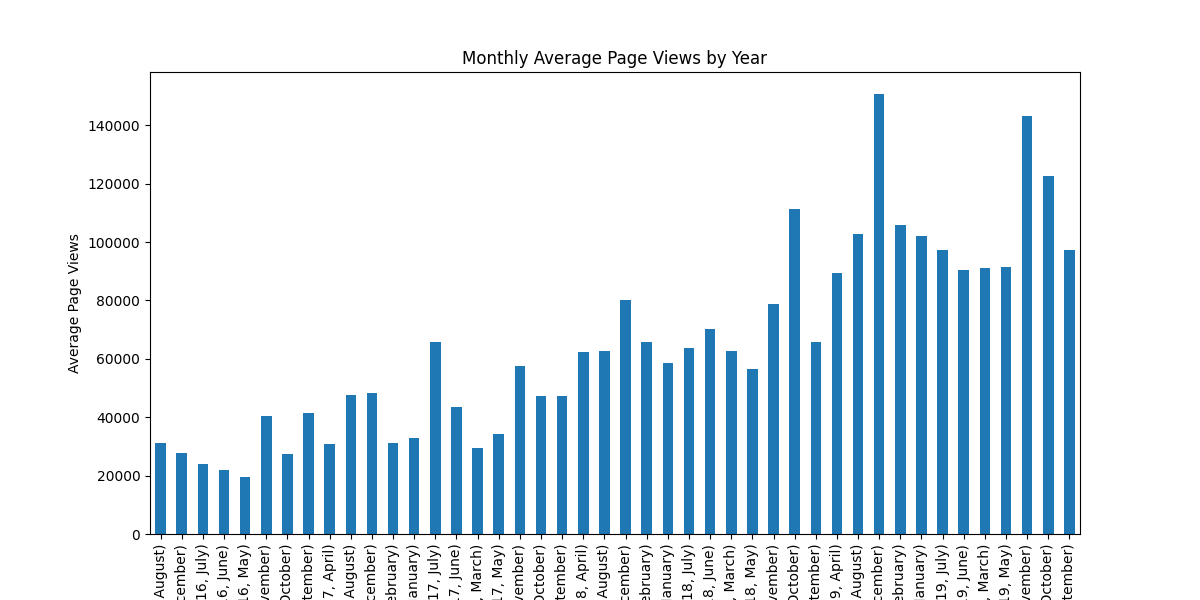
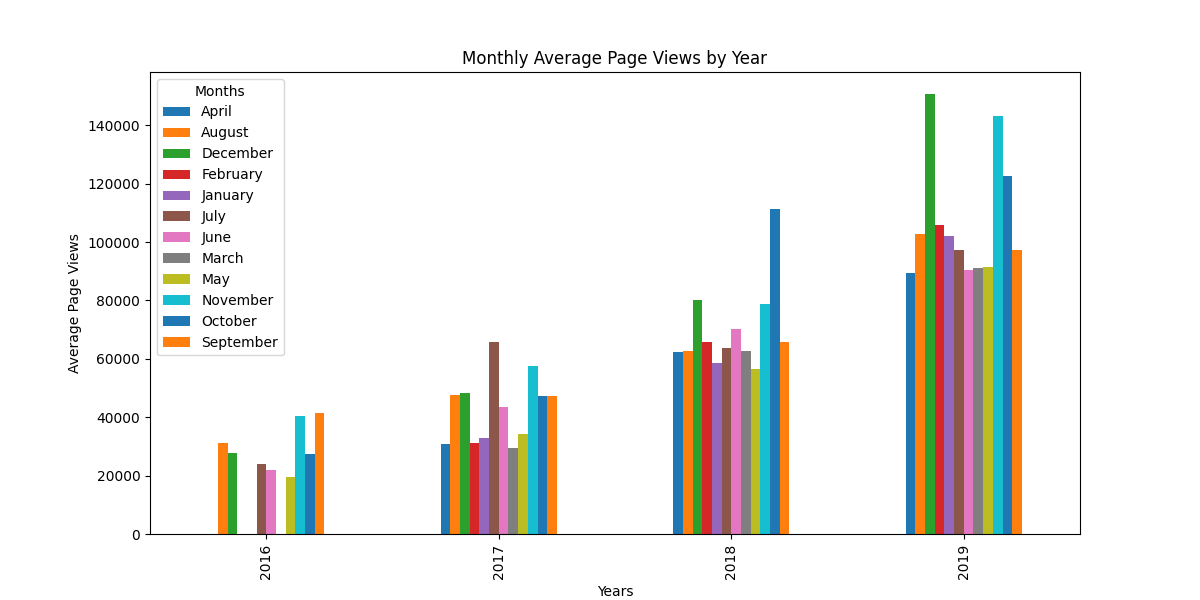
Finalização do código

Changed region(s): [[0.1233, 0.15, 0.8942, 1.0], [0.1233, 0.12, 0.2467, 0.6]]

diff --git a/time_series_visualizer.py b/time_series_visualizer.py
@@ -27,19 +27,20 @@ def draw_line_plot():
 
 def draw_bar_plot():
     # Copy and modify data for monthly bar plot
-    df_bar = df.copy()
+    df_bar = df
     df_bar.index = pd.to_datetime(df_bar.index)
     df_bar['year'] = df_bar.index.year
     df_bar['month'] = df_bar.index.strftime('%B')
-    monthAvg = df_bar.groupby(['year', 'month'])['value'].mean()
+    monthAvg = df_bar.groupby(['year', 'month'])['value'].mean().unstack()
 
     # Draw bar plot
     
     fig = plt.figure(figsize=(12,6))
-    monthAvg.plot(kind="bar")
+    monthAvg.plot(kind="bar", ax=plt.gca())
     plt.xlabel('Years')
     plt.ylabel('Average Page Views')
     plt.title('Monthly Average Page Views by Year')
+    plt.legend(title="Months", loc='upper left')
 
 
     # Save image and return fig (don't change this part)
@@ -53,18 +54,16 @@ def draw_box_plot():
     #Não sei o que fazer aqui... O código já pronto está dando problema
     df_box['year'] = [d.year for d in df_box.date]
     df_box['month'] = [d.strftime('%b') for d in df_box.date]
-    print(df_box)
     fig, axes = plt.subplots(1,2, figsize=(12,6))
     # Draw box plots (using Seaborn)
-   
     sns.boxplot(x='year', y='value', data=df_box, ax=axes[0])
     axes[0].set_title('Year-wise Box Plot (Trend)')
     axes[0].set_xlabel('Year')
     axes[0].set_ylabel('Page Views')
     sns.boxplot(x='month', y='value', data=df_box, ax=axes[1])
-    axes[0].set_title('Year-wise Box Plot (Trend)')
-    axes[0].set_xlabel('Month')
-    axes[0].set_ylabel('Page Views')
+    axes[1].set_title('Month-wise Box Plot (Seasonality)')
+    axes[1].set_xlabel('Month')
+    axes[1].set_ylabel('Page Views')
 
 
     # Save image and return fig (don't change this part)
